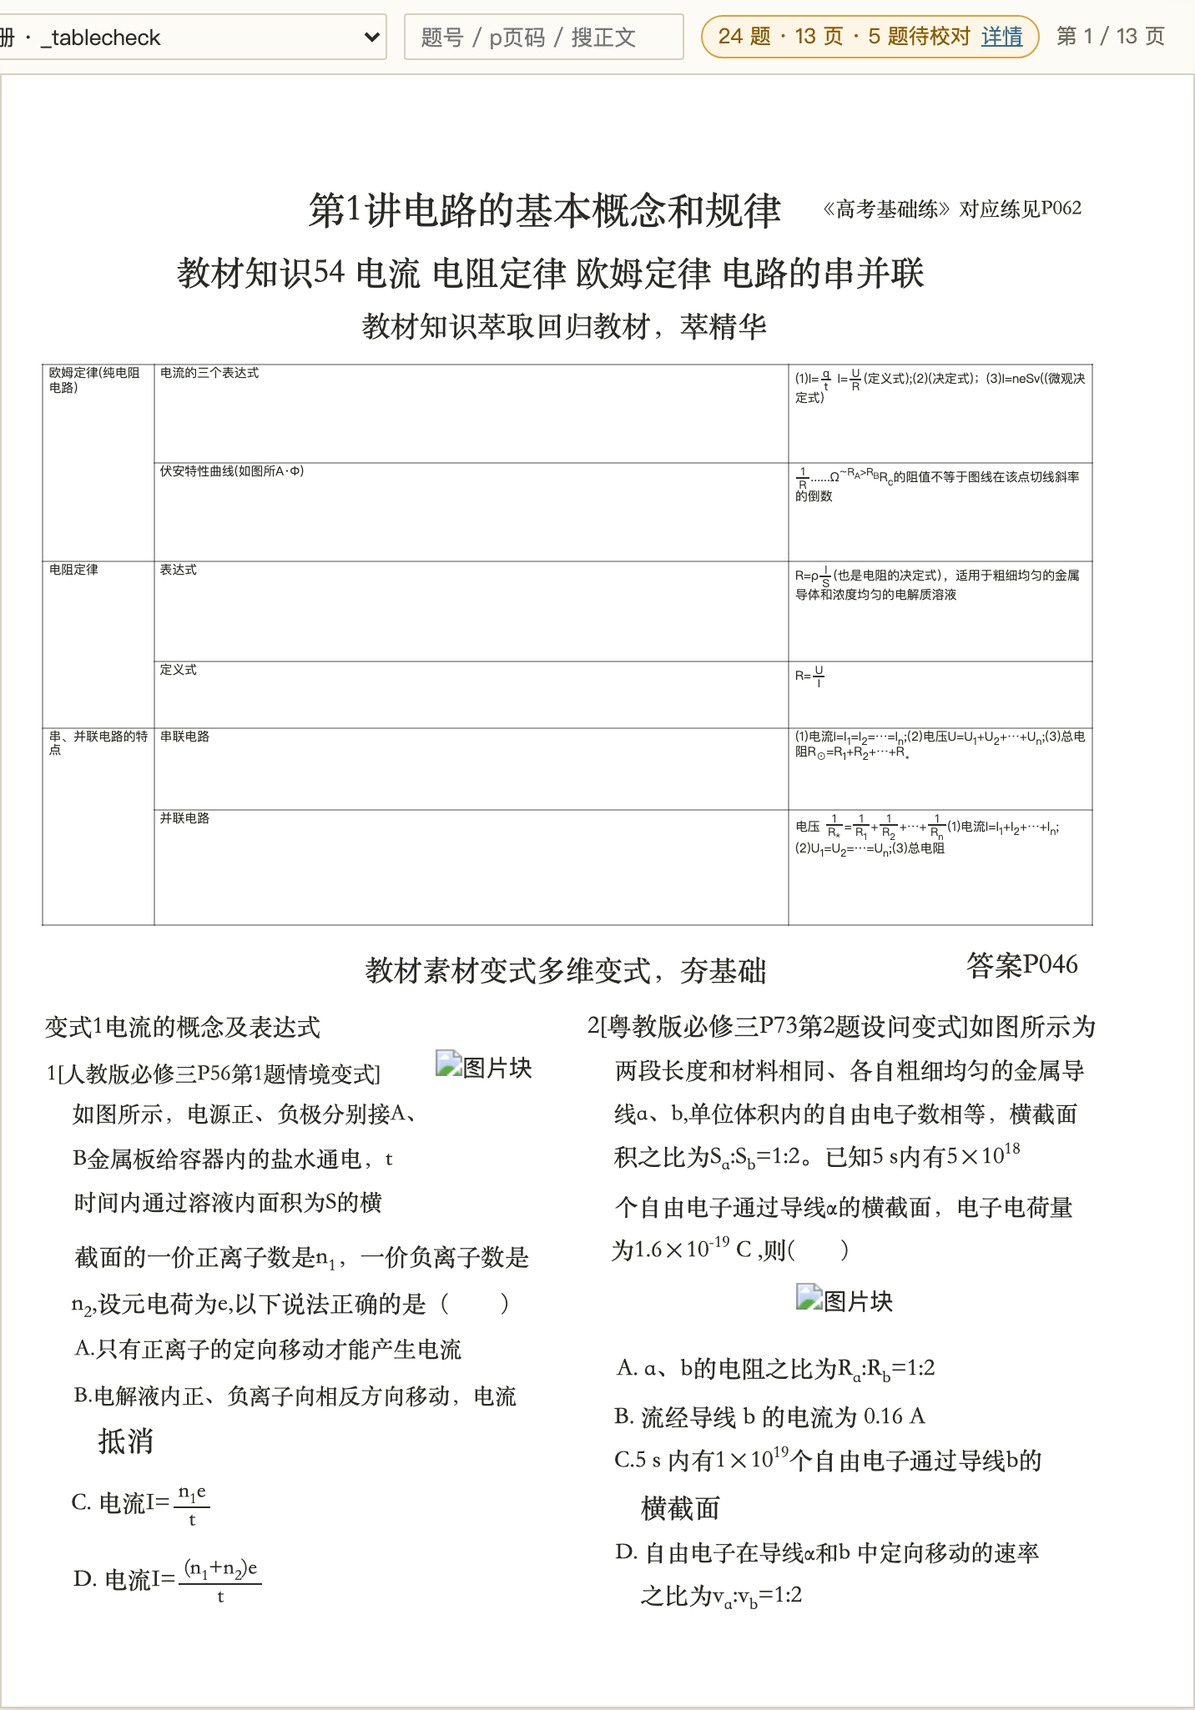
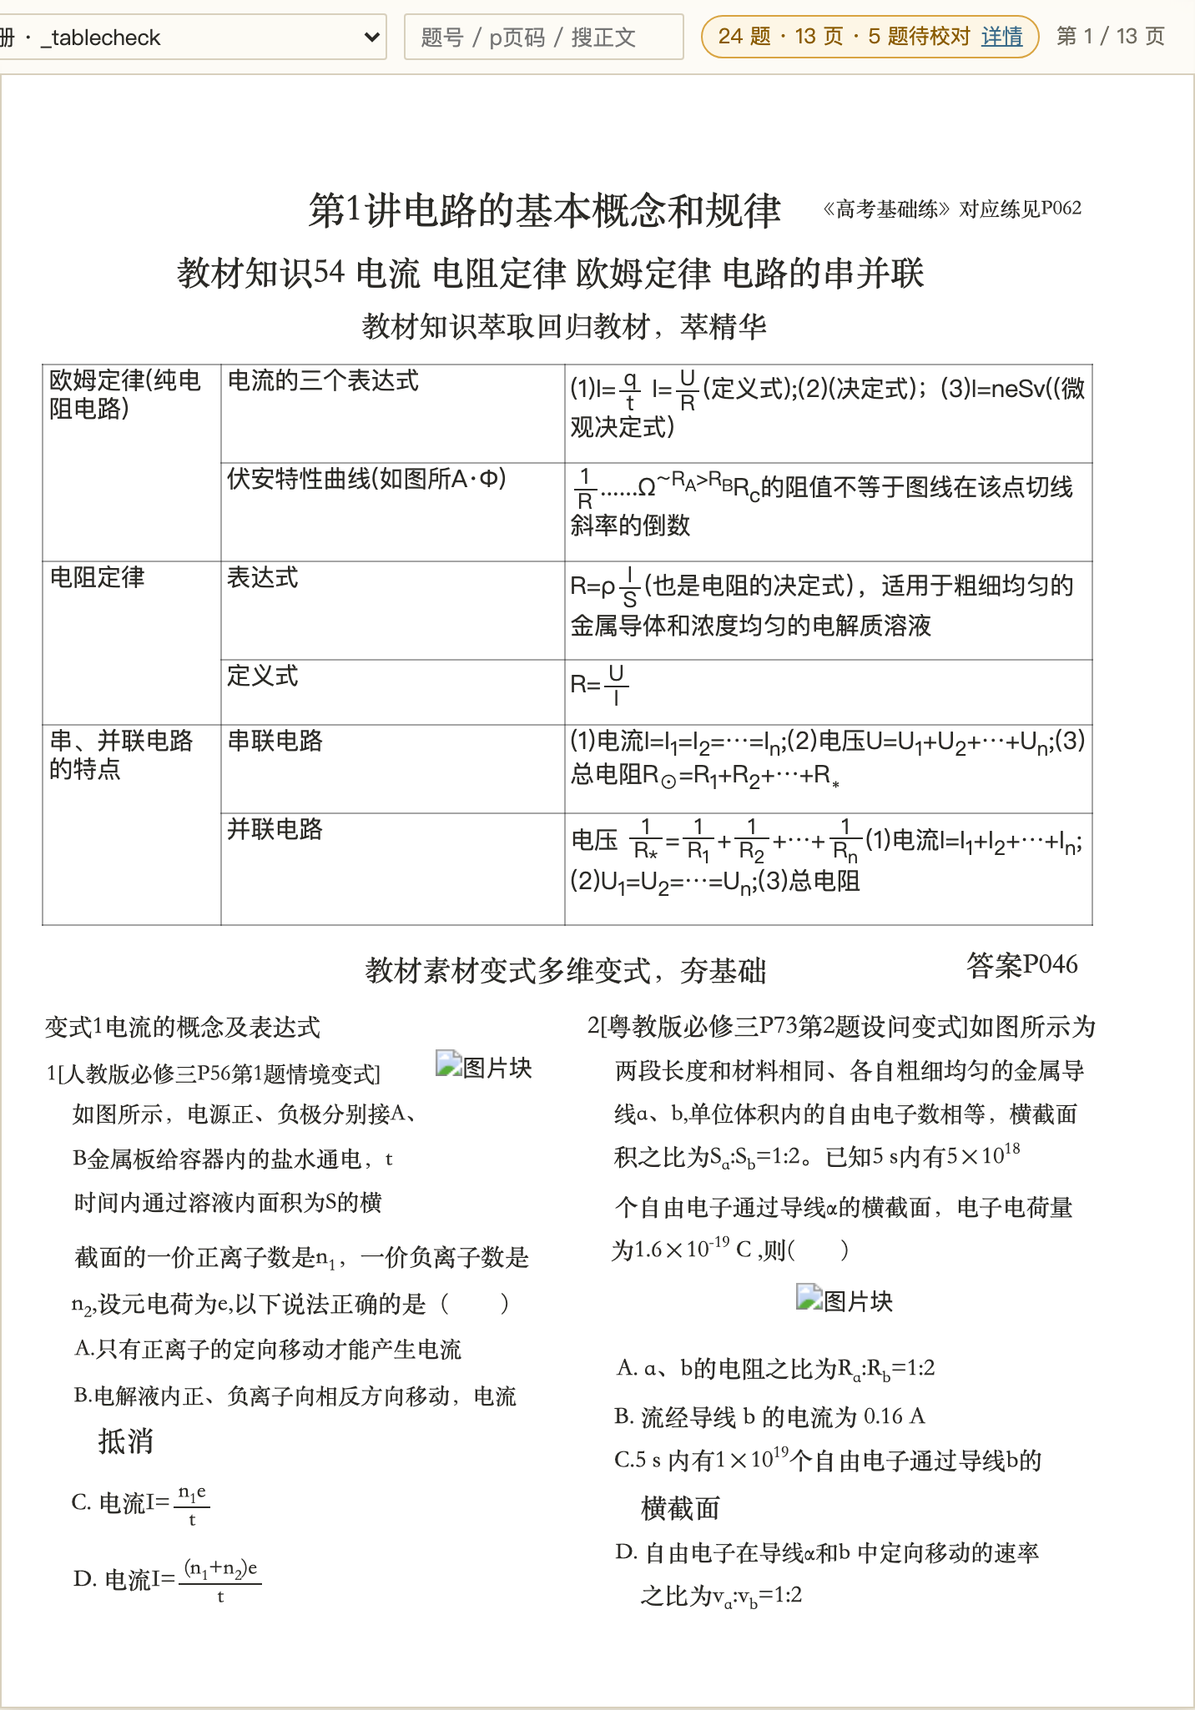
fix(table): 对照原卷修字号与单元格插图（四轮视觉审板）
用户对照原书指出「这肯定不会有这么小的字」，回原卷裁图比对后确认确实错了两处：

1) 字号只有正文的 0.45 倍（表9 仅 3.4px）。两个原因叠加：
   - 按字符数估宽度：$P_{总}=EI=…$ 源码 20 字符只渲染约 2em ⇒ 行数严重高估；
   - 更致命：表格块走了 clampByWidth —— 那是「一行文字 vs 块宽」的夹子，
     而表格块 text 是整表压平文本，被当超长单行 ⇒ 字号被夹到 3~7px。
   改法：新增 textWidthEm（中文1/西文0.55/行内公式2.2 em）；表格不走 clampByWidth，
   初始用页面正文字号，挂载后由 fitTables() 按真实布局收缩（取「装得下的最大值」）。
   实测表格/正文字号比 = 0.82~1.02，与原卷一致。

2) 表4 左下格的 P–R 曲线图丢失。上游表格 HTML 里是 <img src>，cellText 把标签剥掉了。
   改法：解析器单独抽 images[]，渲染为 <img>（object-fit:contain）。

另删掉改后成为死代码的 fitTableFont。
测试 +3（单元格 img 保留 / 渲染为 <img> / 字号不被 clampByWidth 夹小）；check 330/330。

方法教训写进 §76：DOM 结构断言全绿 ≠ 页面对，前三轮测试都过但页面是坏的，
只有「截图 + 回原卷对照」能发现。

diff --git a/stages/reconstruct.js b/stages/reconstruct.js
@@ -51,13 +51,64 @@ export function posStyle(node, bbox, w, h) {
 }
 
 /**
- * 表格节点：按块 bbox 落位，内部按上游 HTML 的行/列画真网格（`DECISIONS §76`）。
+ * **挂载后实测适配**（`DECISIONS §76`）：表格内容比框高就把字号往下收，直到装得下。
+ *
+ * 为什么不在建节点时算：`tableNode` 执行时节点还没进文档，`clientHeight` 是 0，
+ * 量不到真实高度。而纯估算（字符数 / 渲染宽度）**永远偏保守** —— 实测把表格字号压到
+ * 正文的 0.45 倍（原卷里表格字与正文接近同号），用户当场指出「这肯定不会有这么小的字」。
+ * ⇒ 初始用页面正文字号，挂载后用真实布局收缩，取到「装得下的最大值」。
+ *
+ * 只缩不放：字号已经由 `fontForBlock` 按页面口径定过，放大就不再忠实。
+ */
+export function fitTables(root) {
+  const nodes = root?.querySelectorAll ? root.querySelectorAll(".blk-table") : [];
+  for (const node of nodes) {
+    const table = node.querySelector("table");
+    if (!table || typeof node.clientHeight !== "number" || node.clientHeight <= 0) continue;
+    let fs = parseFloat(table.style.fontSize) || 12;
+    let guard = 0;
+    while (node.scrollHeight > node.clientHeight + 1 && fs > 6 && guard++ < 60) {
+      fs = Math.max(6, fs - 0.25);
+      table.style.fontSize = `${fs}px`;
+    }
+  }
+}
+
+/** 表格节点：按块 bbox 落位，内部按上游 HTML 的行/列画真网格（`DECISIONS §76`）。
  *
  * 为什么用内联样式：`stages/` 与 `final/` 各有自己的 CSS，但**共用本渲染器**。
  * 把表格样式写成内联，能保证两处一定长得一样（红线「纸面重建只此一处实现」）。
  *
  * 解析不出行时返回 null ⇒ 调用方退回普通文本渲染（**不丢内容**）。
  */
+/**
+ * 单元格文本的**渲染宽度估计**（单位 em，`DECISIONS §76`）。
+ *
+ * 为什么不能按字符数：`$P_{总}=EI=P_{出}+P_{内}$` 在源码里有 20 个字符，渲染出来只有
+ * 约 2em 宽。按字符数会把行数严重高估 ⇒ 字号被压到 6–8px（2026-10-29 用户对照原书指出
+ * 「这肯定不会有这么小的字」，实测确实只有原卷的 1/2 左右）。
+ *
+ * 口径：中文 1em、西文/数字 0.55em、其余标点 0.4em、行内公式整体约 2.2em。
+ * 仍是估计，但误差方向从「系统性高估」变成「大致相当」。
+ */
+export function textWidthEm(s) {
+  let em = 0;
+  for (const part of String(s ?? "").split(/(\$[^$]*\$)/)) {
+    if (!part) continue;
+    if (part.startsWith("$") && part.endsWith("$") && part.length > 1) {
+      em += 2.2;
+      continue;
+    }
+    for (const ch of part) {
+      if (/[\u4e00-\u9fa5]/.test(ch)) em += 1;
+      else if (/[A-Za-z0-9]/.test(ch)) em += 0.55;
+      else if (/\s/.test(ch)) em += 0.3;
+      else em += 0.4;
+    }
+  }
+  return em;
+}
+
 /**
  * 按内容给每列分配宽度比例（`DECISIONS §76`）。
  *
@@ -74,7 +125,7 @@ export function tableColWidths(rows, cols) {
   for (const r of rows) {
     let c = 0;
     for (const cell of r.cells) {
-      const per = Math.max(1, (cell.text || "").length) / cell.colspan;
+      const per = Math.max(1, textWidthEm(cell.text)) / cell.colspan;
       for (let k = 0; k < cell.colspan && c + k < cols; k++) chars[c + k] = Math.max(chars[c + k], per);
       c += cell.colspan;
     }
@@ -86,52 +137,17 @@ export function tableColWidths(rows, cols) {
   return raw.map((n) => (n / sum) * 100);
 }
 
-/**
- * 按「框宽/框高 + 单元格文字量 + 列宽比例」估算能装下的字号（`DECISIONS §76`）。
- *
- * 为什么需要：表格 bbox 是**原卷真实区域**，内容超出就会压到下面的正文
- * （2026-10-29 实测：表4 溢出 69px，直接叠在「教材素材变式…」上）。
- * 不能等渲染后量（`tableNode` 建节点时还没进文档，`clientHeight` 是 0），
- * 所以用字符数做确定性估算，从给定字号往下收敛到装得下为止。
- *
- * 口径：CJK 按 1em/字、行高 1.2、单元格上下 padding 各 1px。
- * 宁可估得保守（字号偏小）也不要溢出压字。
- */
-export function fitTableFont(rows, widths, boxWpx, boxHpx, startSize) {
-  if (!rows.length || !widths.length || boxWpx <= 0 || boxHpx <= 0) return startSize;
-  const totalW = widths.reduce((a, b) => a + b, 0) || 1;
-  for (let fs = startSize; fs > 6; fs -= 0.5) {
-    let total = 0;
-    for (const r of rows) {
-      let rowLines = 1;
-      let c = 0;
-      for (const cell of r.cells) {
-        let frac = 0;
-        for (let k = 0; k < cell.colspan && c + k < widths.length; k++) frac += widths[c + k] / totalW;
-        c += cell.colspan;
-        const cellWpx = boxWpx * frac;
-        const perLine = Math.max(1, Math.floor(cellWpx / fs));
-        const lines = Math.max(1, Math.ceil((cell.text || "").length / perLine));
-        if (lines > rowLines) rowLines = lines;
-      }
-      total += rowLines * fs * 1.2 + 2;
-    }
-    if (total <= boxHpx) return fs;
-  }
-  return 6;
-}
-
-export function tableNode(b, p, canvasW = CANVAS_W, baseFont = null) {
+export function tableNode(b, p, canvasW = CANVAS_W, baseFont = null, doc = "") {
   const { rows, cols } = parseTableHtml(b.html);
   if (!rows.length) return null;
   const node = posStyle(el("div", "blk blk-table kind-table"), b.bbox, p.width, p.height);
   node.title = "上游表格（按 spans[].html 的 rowspan/colspan 还原网格）";
-  const startSize = clampByWidth(fontForBlock(b, p.width, canvasW, baseFont, p.blocks), b, p.width, canvasW);
-  const scale = canvasW / p.width;
-  const boxWpx = (b.bbox[2] - b.bbox[0]) * scale;
-  const boxHpx = (b.bbox[3] - b.bbox[1]) * scale;
+  // 初始用**页面正文字号**（表格字与原卷正文接近同号，2026-10-29 对照原卷实测）。
+  // ⚠ 不能用 `clampByWidth`：它是「一行文字宽度 vs 块宽」的夹子，而表格块的 `text` 是
+  // **整表压平文本**（几十上百字），会被当成超长单行 ⇒ 字号被夹到 3–7px（实测表9 只剩 3.4px）。
+  // 表格的宽度约束由 `tableColWidths` + 单元格换行负责，高度约束由 `fitTables` 实测负责。
+  const size = baseFont || fontForBlock(b, p.width, canvasW, baseFont, p.blocks) || 12;
   const widths = tableColWidths(rows, cols);
-  const size = fitTableFont(rows, widths, boxWpx, boxHpx, startSize);
   const table = el("table");
   // ⚠ `white-space:normal` 是必须的：`.blk` 全局 `white-space:nowrap`（行级块按原坐标排一行），
   // 表格继承它就不换行 ⇒ 单元格内容溢出、被 `.canvas{overflow:hidden}` 裁掉右半边
@@ -152,6 +168,14 @@ export function tableNode(b, p, canvasW = CANVAS_W, baseFont = null) {
       if (cell.colspan > 1) td.colSpan = cell.colspan;
       td.style.cssText = "border:1px solid rgba(0,0,0,.35);padding:1px 3px;vertical-align:top;white-space:normal;word-break:break-word;overflow-wrap:anywhere;";
       td.innerHTML = prettifyLatex(cell.text);
+      // 单元格里的插图（上游 `<img src>`）：表格里的曲线图/示意图不能丢（对照原卷 2026-10-29）
+      for (const name of cell.images ?? []) {
+        const img = el("img");
+        img.src = `/data/out/${enc(doc)}/images/${enc(name)}`;
+        img.alt = "表格内插图";
+        img.style.cssText = "max-width:100%;max-height:100%;object-fit:contain;display:block;margin:2px 0;";
+        td.append(img);
+      }
       tr.append(td);
     }
     table.append(tr);
@@ -219,7 +243,7 @@ export function appendBlockNodes(c, p, canvasW, baseFont, mergeCtx, doc = "", ca
   const nodes = p.blocks.map((b) => {
     if (coveredByTable.has(b.i)) return null;
     if (b.kind === "table" && b.html) {
-      const tn = tableNode(b, p, canvasW, baseFont);
+      const tn = tableNode(b, p, canvasW, baseFont, doc);
       if (tn) return tn;
     }
     return blockNode(b, p, canvasW, baseFont, mergeCtx, doc);
@@ -582,5 +606,9 @@ export function renderPaper(p, opts = {}) {
   if (diagnostics) uncoveredInto(c, p, innerW); // 再画遗漏标记（盖得住候选，符合原顺序）
   // 注意：**不要再次 append(c)** —— c 已经在 wrap 里；重复 append 会把它移出容器，
   // 号牌就又回到被 `.canvas{overflow:hidden}` 裁掉的状态。
+  // 表格字号适配必须在**挂载后**做：节点进文档才有 clientHeight。
+  // 用 rAF 排到下一帧，两个调用方（final / stages）都不用改一行（纸面重建只此一处）。
+  if (typeof requestAnimationFrame === "function") requestAnimationFrame(() => fitTables(wrap));
+
   return { wrap, canvas: c, innerW };
 }

diff --git a/stages/table-html.js b/stages/table-html.js
@@ -21,6 +21,8 @@
  * @property {string} text 单元格文本（公式已转成 `$…$`）
  * @property {number} rowspan
  * @property {number} colspan
+ * @property {string[]} images 单元格内插图文件名（上游 `<img src>`）。`cellText` 会剥标签，
+ *   所以图片必须单独抽出来，否则表格里的曲线图/示意图全丢（2026-10-29 对照原卷发现）。
  *
  * @typedef {object} TableRow
  * @property {TableCell[]} cells
@@ -88,10 +90,15 @@ export function parseTableHtml(html) {
       const body = cm[3] ?? "";
       const rs = Number((/rowspan\s*=\s*["']?(\d+)/i.exec(attrs) ?? [])[1] ?? 1);
       const cs = Number((/colspan\s*=\s*["']?(\d+)/i.exec(attrs) ?? [])[1] ?? 1);
+      // 单元格里的插图（上游 HTML 用 `<img src="xxx.jpg">` 表示）：
+      // `cellText` 会把标签剥掉，所以必须**单独抽出来**，否则表格里的曲线图/示意图全丢
+      // （2026-10-29 对照原卷发现：电路 p5 表格左下格的 P–R 曲线图被吞掉）。
+      const images = [...body.matchAll(/<img\b[^>]*\bsrc\s*=\s*["']?([^"'\s>]+)/gi)].map((m) => m[1] ?? "");
       cells.push({
         text: cellText(body),
         rowspan: Number.isFinite(rs) && rs > 0 ? rs : 1,
         colspan: Number.isFinite(cs) && cs > 0 ? cs : 1,
+        images: images.filter(Boolean),
       });
     }
     if (cells.length) rows.push({ cells });

diff --git a/stages/reconstruct.d.ts b/stages/reconstruct.d.ts
@@ -30,9 +30,10 @@ export function enc(s: string): string;
 export function paperCanvas(p: any): any;
 export function posStyle(node: any, bbox: number[], w: number, h: number): any;
 export function blockNode(b: any, p: any, canvasW?: number, baseFont?: number | null, mergeCtx?: any, doc?: string): any;
+export function textWidthEm(s: string): number;
 export function tableColWidths(rows: any[], cols: number): number[];
-export function fitTableFont(rows: any[], widths: number[], boxWpx: number, boxHpx: number, startSize: number): number;
-export function tableNode(b: any, p: any, canvasW?: number, baseFont?: number | null): any;
+export function fitTables(root: any): void;
+export function tableNode(b: any, p: any, canvasW?: number, baseFont?: number | null, doc?: string): any;
 export function mergeContext(p: any): any;
 export function appendBlockNodes(
   c: any,

diff --git a/tests/table-html.test.ts b/tests/table-html.test.ts
@@ -55,3 +55,14 @@ test("parseTableHtml：th 与 td 同等对待（表头也是单元格）", () =>
   assert.equal(t.rows.length, 2);
   assert.equal(t.rows[0]!.cells[0]!.text, "表头");
 });
+
+test("parseTableHtml：单元格内的 `<img src>` 单独保留（cellText 会剥标签，图片不能跟着丢）", () => {
+  // 2026-10-29 对照原卷发现：电路 p5 表格左下格的 P–R 曲线图被 cellText 当标签剥掉
+  const t = parseTableHtml(
+    '<table><tr><td>说明<img src="abc123.jpg"/></td><td>无图</td></tr></table>',
+  );
+  assert.equal(t.rows[0]!.cells[0]!.images.length, 1);
+  assert.equal(t.rows[0]!.cells[0]!.images[0], "abc123.jpg");
+  assert.equal(t.rows[0]!.cells[0]!.text, "说明", "文本里不留 img 标签");
+  assert.deepEqual(t.rows[0]!.cells[1]!.images, []);
+});

diff --git a/docs/DECISIONS.md b/docs/DECISIONS.md
@@ -3328,10 +3328,11 @@ MinerU 把表格作为独立块给出（`type:"table"`、`lines:[]`、网格在*
 `docId / 题数 / (章|组|题号) 序列哈希`，改动前后 `diff` ⇒ **完全一致**（`✅ 全量零差异`）。
 这是本特性的核心风险点（动的是引擎输入），所以列为门而不是"应该没问题"。
 
-**测试**：`tests/table-html.test.ts`（6 例：基本两行三列 / rowspan+colspan / `<eq>`→`$…$` /
-标签与实体 / 空输入 / th 同 td）、`tests/table-render.test.ts`（4 例：网格产出与合并正确 /
-解析失败返回 null / 覆盖行块被跳过 / **只部分重叠的块不被误伤**）。`npm run check` **327/327**、
-渲染审计 8/8、题号审计新增 0 条、配对 420 不变。
+**测试**：`tests/table-html.test.ts`（7 例：两行三列 / rowspan+colspan / `<eq>`→`$…$` /
+标签与实体 / 空输入 / th 同 td / **单元格 `<img>` 单独保留**）、
+`tests/table-render.test.ts`（6 例：网格与合并 / 解析失败返回 null / 覆盖行块被跳过 /
+只部分重叠不误伤 / **单元格图片渲染为 `<img>`** / **字号不被 `clampByWidth` 夹小**）。
+`npm run check` **330/330**、渲染审计 8/8、题号审计新增 0 条、配对 420 不变。
 
 **偏离设计的一处（已确认可省）**：设计文档 Surface 写了「快照题目带 `tables`」，
 实现**未加** —— 渲染从块（`blocks[].html`）取，快照再存一份是无人消费的死数据。
@@ -3348,14 +3349,24 @@ MinerU 把表格作为独立块给出（`type:"table"`、`lines:[]`、网格在*
   本轮用临时册 `data/out/_tablecheck`（由 `电路-MinerU` 的 layout 生成）验证链路：快照 9 个
   table 块全部带 html、24 题里 4 题带 `tables`。
 
-**视觉审板（2026-10-29，Playwright 实测，截图 `docs/design/table-cap/`）**：修掉两个只有看截图才会发现的问题：
-1. **右侧文字被裁** —— `.blk` 全局 `white-space:nowrap`（行级块按原坐标排一行），表格继承它
-   就不换行 ⇒ 单元格内容溢出、被 `.canvas{overflow:hidden}` 切掉右半边。修法：表格与 `td`
-   显式 `white-space:normal` + `overflow-wrap:anywhere`。
-2. **纵向溢出压正文** —— 表4 内容比 bbox 高 **69px**，直接叠在「教材素材变式…」上。
-   修法：新增 `tableColWidths`（按单元格字符数分配列宽，等宽会让宽列挤成多行）
-   + `fitTableFont`（按框宽/框高/文字量确定性收敛字号，下限 6px）。
-   复测 9 张表 **溢出全部归零**、`.blk-line` 与表格区域**重叠 0 处**。
+**视觉审板（2026-10-29，Playwright 实测，截图 `docs/design/table-cap/`）**：
+共四轮，**前三轮修完仍是错的**，每轮都是靠截图（而非测试）发现的：
+
+| 轮 | 现象 | 根因 | 修法 |
+|---|---|---|---|
+| 1 | 表格右半文字被裁 | `.blk` 全局 `white-space:nowrap` 被表格继承 ⇒ 不换行 ⇒ 溢出被 `.canvas{overflow:hidden}` 切 | 表格与 `td` 显式 `white-space:normal` + `overflow-wrap:anywhere` |
+| 2 | 表4 纵向溢出 **69px**，压在「教材素材变式…」上 | 列等宽 ⇒ 宽列内容挤成多行 | 新增 `tableColWidths`（按内容分配列宽） |
+| 3 | 字号只有正文的 **0.45 倍**（用户对照原书：「这肯定不会有这么小的字」） | ① 按**字符数**估宽度：`$P_{总}=EI=…$` 源码 20 字符只渲染约 2em ⇒ 行数严重高估；② 更致命的是表格块走了 `clampByWidth` —— 那是「一行文字 vs 块宽」的夹子，而表格块 `text` 是**整表压平文本**，被当超长单行 ⇒ 表9 只剩 **3.4px** | 新增 `textWidthEm`（中文 1em / 西文 0.55em / 行内公式 2.2em）；表格**不走 `clampByWidth`**，初始用页面正文字号，挂载后由 `fitTables()` 实测收缩 |
+| 4 | 表4 左下格**曲线图不见了**（原书有 P–R 图） | 上游表格 HTML 里是 `<img src="…jpg">`，`cellText` 把标签剥掉了 ⇒ 图片被吞 | 解析器单独抽 `images[]`；渲染为 `<img>`（`object-fit:contain`） |
+
+**最终实测（`_tablecheck` 9 张表）**：表格字号 / 正文字号 = **0.82 ~ 1.02**（原卷里两者接近同号）；
+溢出 **全 0**；`.blk-line` 与表格区域**重叠 0 处**；表4 左下格曲线图正常显示。
+
+**方法教训（已够格写进红线）**：DOM 结构断言全绿 ≠ 页面对。前三轮的 `tests/table-render.test.ts`
+都是通过的，而页面上字小到看不清、图丢了。**唯一发现途径是「截图 + 回原卷对照」**——
+本轮把原卷页图按表格 bbox 裁出来（`tmp/crop-orig.mjs`）并排看，才看出字号和图的问题。
+凡显示层改动，必须走这条，不能只看测试。
+
 另：部分单元格空白是**上游 HTML 本身给了空 `<td>`**，不是渲染丢失（保持忠实，不补猜内容）。
 
 **状态**：已落地并视觉验收（截图证据 `docs/design/table-cap/`）。

diff --git a/docs/HANDOFF.md b/docs/HANDOFF.md
@@ -6,7 +6,7 @@
 > （有命令、有页图、有提交号三者之一佐证），推测必须显式标注。
 
 - **交接快照日期**：2026-10-29
-- **快照时的质量门**：`npm run check` 全绿（typecheck + 测试 **307 例** + audit:render:baseline + audit:numbering
+- **快照时的质量门**：`npm run check` 全绿（typecheck + 测试 **330 例** + audit:render:baseline + audit:numbering
   + **bank:all**；多册配对 **420 条**，唯一键无重复，内容尺子全部达标 —— 2026-10-29 实跑复验）
 - **快照时的 git HEAD**：`feature/oxr` @ `c5b7eda`（2026-10-29 已 push `origin/feature/oxr`，未推送 0 个）
 - **快照时的 git HEAD**：`feature/oxr` 已把 `main` merge 进来（合并提交 `cfbce09`，冲突按实跑解决），
@@ -630,9 +630,12 @@ layout.json / content_list.json
     （不引入 `htmlBBox`，`kind:"table"` 时 `bbox` 即表格框；表格归属改为
     `Question.tables[]`，`stem` 一个字不改）。**硬约束已验**：15 册全量 A/B 题数与题号序列
     **逐字节一致**；`check` 327/327、渲染审计 8/8、配对 420 不变。
-    **仍剩两件**：① **视觉审板待人工**（本机无 playwright）——`npm run view` →
-    `http://localhost:4173/final/?doc=_tablecheck`；② **存量产物未重生成**（见 §76「已知边界」：
-    单跑 `daily --no-ocr` 会因缺少融合/OCR/选源步骤而改变题数，与本特性无关，故不动基线）。
+    **视觉审板已完成（Playwright，四轮，见 §76 表格）**——前三轮修完页面上仍是错的
+    （字只有正文 0.45 倍、单元格曲线图丢失），全靠「截图 + 回原卷对照」才看出来。
+    最终：表格字号/正文 = **0.82~1.02**、溢出 0、与行块重叠 0、曲线图正常。
+    **只剩一件**：**存量产物未重生成**（见 §76「已知边界」：单跑 `daily --no-ocr`
+    会因缺少融合/OCR/选源步骤而改变题数，与本特性无关，故不动基线）。
+    验证用临时册 `data/out/_tablecheck`（含 images，可 `rm -rf` 删）。
 26. **实验题黏连题号 ⇒ 含实验标记的页 62% 切不出题（2026-10-29 量化，P1，未修）**：
     实测全项目主产物 390 页里，含「【实验原理】/【实验步骤】/【实验器材】/【数据处理】/【实验结论】」
     标记的有 **8 页**，其中 **5 页一题都没切出来（62%）**：
